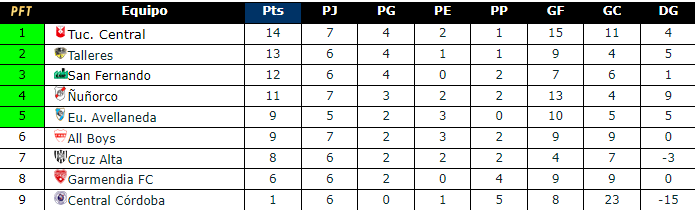
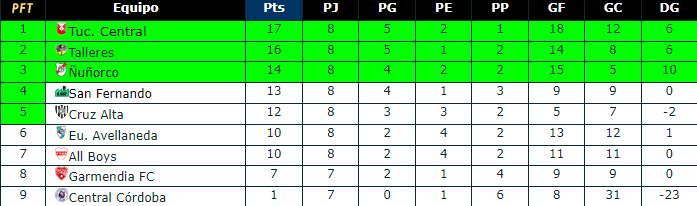
se actualizaron datos de tabla y fechas de partido

diff --git a/src/components/NextMach.jsx b/src/components/NextMach.jsx
@@ -1,7 +1,7 @@
 import React from "react";
-import { Card, Col, Container, Image, Row } from "react-bootstrap";
+import { Container, Image } from "react-bootstrap";
 import sanFernando from "../assets/sanFer-escudo.png";
-import Nunorco from "../assets/equipos/Nunorco.png";
+import avellaneda from "../assets/equipos/eudoro-avellaneda.png";
 
 const NextMach = () => {
     return (
@@ -12,20 +12,20 @@ const NextMach = () => {
                 </div>
                 <div className="my-3 pb-5  ">
                     <div className="d-flex  justify-content-center my-3">
-                        <div className="text-center ">
+                        <div className="text-center mt-2 ">
                             <Image src={sanFernando} style={{ width: "7rem" }} />
                             <p>San fernando</p>
                         </div>
                         <div className="fs-1 fw-bolder mx-5">vs</div>
                         <div className="text-center">
-                            <Image src={Nunorco} style={{ width: "6rem" }} />
-                            <p>Ñuñorco</p>
+                            <Image src={avellaneda} style={{ width: "6rem" }} />
+                            <p>Eu. Avellaneda</p>
                         </div>
                     </div>
                     <div className="text-center ">
                         <div>Liga Tucumana - Ascenso LTF.</div>
-                        <div>17 septiembre, 2023</div>
-                        <div>17:30 pm</div>
+                        <div>26 septiembre, 2023</div>
+                        <div>16:00 pm</div>
                     </div>
                 </div>
             </Container>

diff --git a/src/components/TablePosition.jsx b/src/components/TablePosition.jsx
@@ -16,11 +16,11 @@ const TablePosition = () => {
                     </p>
                 </div>
                 <Row className="my-3 pb-5">
-                    <Col sm={6}>
+                    <Col sm={6} className="my-3">
                         <p>Zona A</p>
                         <Image variant="top" src={zonaA} className="w-100" />
                     </Col>
-                    <Col sm={6}>
+                    <Col sm={6} className="my-3">
                         <p>Zona B</p>
                         <Image variant="top" src={zonab} className="w-100" />
                     </Col>
